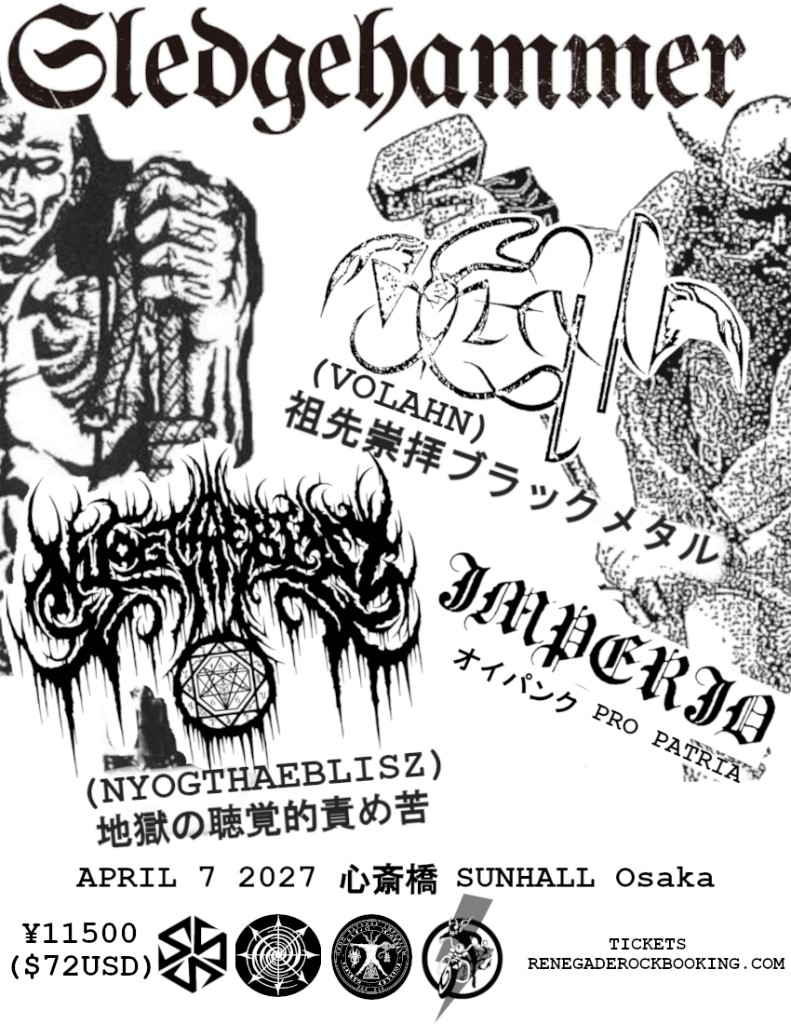
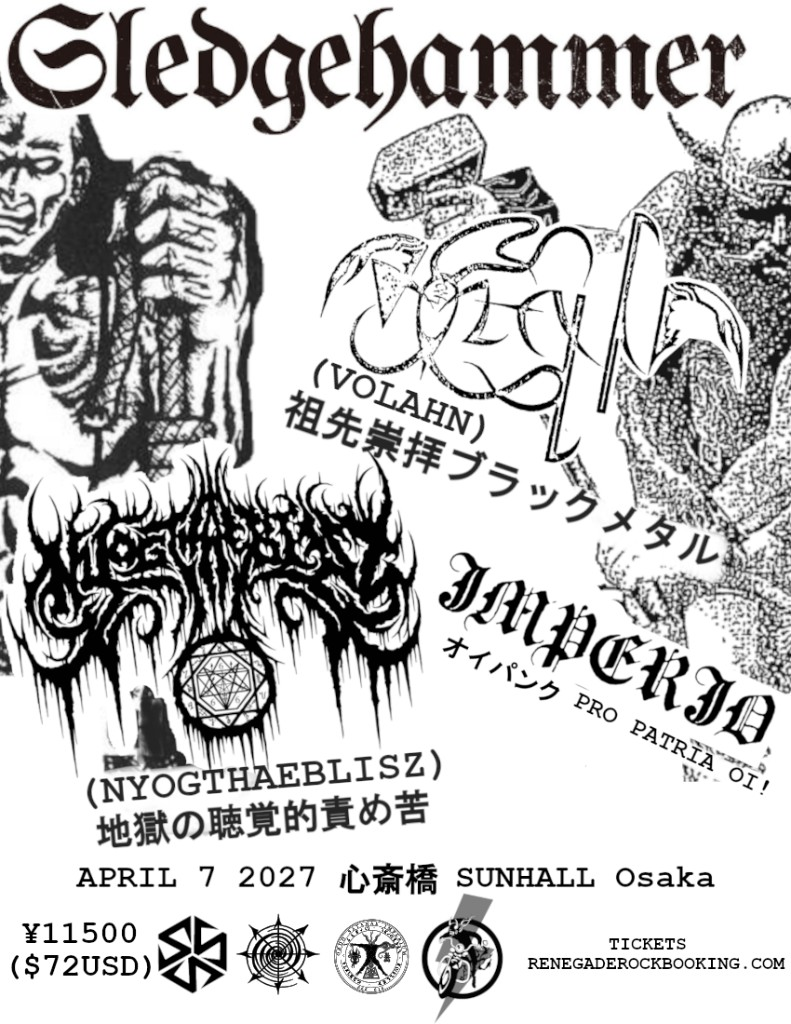
flyer and instagram

Changed region(s): [[0.2731, 0.875, 0.5461, 1.0], [0.5461, 0.625, 0.9102, 0.75], [0.9102, 0.75, 0.9709, 0.7812]]

diff --git a/index.html b/index.html
@@ -26,6 +26,8 @@
 
     <footer>
       <!-- EDIT: social and contact links -->
+      <a href="https://instagram.com/renegaderokk">instagram</a>
+      ·
       <a href="mailto:webmaster@renegaderockbooking.com">email</a>
       ·
       <a href="privacy.html">privacy policy</a>

diff --git a/privacy.html b/privacy.html
@@ -56,6 +56,8 @@
     <footer>
       <a href="index.html">home</a>
       ·
+      <a href="https://instagram.com/renegaderokk">instagram</a>
+      ·
       <a href="mailto:webmaster@renegaderockbooking.com">email</a>
     </footer>
   </main>
